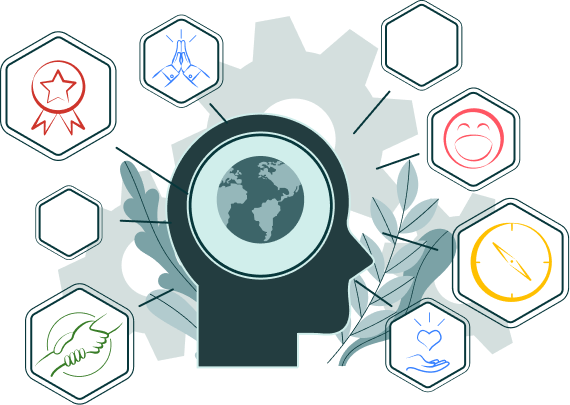
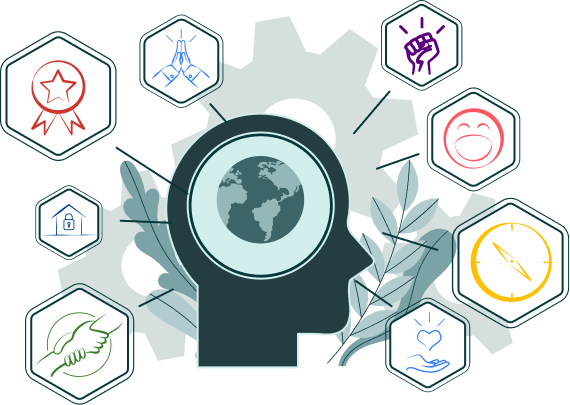
update images and cleanup

Changed region(s): [[0.686, 0.0296, 0.7754, 0.1778], [0.0895, 0.5037, 0.1491, 0.5926]]

diff --git a/screens/onboarding/OnBoardingScreen.tsx b/screens/onboarding/OnBoardingScreen.tsx
@@ -1,0 +1,94 @@
+import { useState } from 'react';
+import { Pressable, StyleSheet, Text, View, Image, Dimensions } from 'react-native';
+import { MaterialIcons } from '@expo/vector-icons';
+
+const texts = [
+  'Explore how climate change impacts you personally and relates to your values.',
+  'Stay informed on climate trends and developments to better understand the impacts of climate change.',
+  'Discover climate solutions tailored to you.',
+  'Start a conversation with a friend about climate change.',
+]
+
+const images = [
+  require('../../assets/onboarding/onboarding1.png'),
+  require('../../assets/onboarding/onboarding2.png'),
+  require('../../assets/onboarding/onboarding3.png'),
+  require('../../assets/onboarding/onboarding4.png'),
+]
+
+interface Props {
+  onCompleted: () => void;
+}
+
+function OnBoardingScreen({ onCompleted }: Props) {
+  const [currentScreen, setCurrentScreen] = useState(0);
+
+  function nextScreen() {
+    if (currentScreen < 3) {
+      setCurrentScreen(currentScreen + 1);
+    } else {
+      onCompleted();
+    }
+  }
+
+  function previousScreen() {
+    if (currentScreen > 0) {
+      setCurrentScreen(currentScreen - 1);
+    }
+  }
+
+  return (
+    <View style={styles.container}>
+
+      <View style={styles.contentArea}>
+        <Image style={styles.image} source={images[currentScreen]} />
+        <Text style={styles.text}>{texts[currentScreen]}</Text>
+      </View>
+
+      <View style={styles.navIcons}>
+        <Pressable onPress={() => previousScreen()} style={styles.navIcon}>
+          {currentScreen > 0 && <MaterialIcons name="arrow-back-ios" size={32} color="black" />}
+        </Pressable>
+        <Pressable onPress={() => nextScreen()} style={styles.navIcon}>
+          <MaterialIcons name="arrow-forward-ios" size={32} color="black" />
+        </Pressable>
+      </View>
+
+    </View>
+  );
+}
+
+const styles = StyleSheet.create({
+  container: {
+    flex: 1,
+    backgroundColor: '#D0EEEB',
+  },
+  contentArea: {
+    flex: 1,
+    marginTop: '20%',
+  },
+  image: {
+    resizeMode: 'contain',
+    width: '95%',
+    height: Dimensions.get('window').height / 2,
+    alignSelf: 'center',
+  },
+  text: {
+    fontFamily: 'nunito-bold',
+    fontSize: 16,
+    paddingHorizontal: 40,
+  },
+  navIcons: {
+    width: Dimensions.get('window').width,
+    flexDirection: 'row',
+    justifyContent: 'space-between',
+    position: 'absolute',
+    bottom: 20,
+    paddingHorizontal: 20,
+  },
+  navIcon: {
+    padding: 20,
+  },
+});
+
+export default OnBoardingScreen;

diff --git a/navigation/RootStackNavigation.tsx b/navigation/RootStackNavigation.tsx
@@ -6,7 +6,6 @@ import LoginScreen from '../screens/stack/LoginScreen/LoginScreen';
 import PreQuizScreen from '../screens/stack/PreQuizScreen/PreQuizScreen';
 import PersonalValuesScreenNewUser from '../screens/stack/PersonalValuesScreenNewUser/PersonalValuesScreenNewUser';
 import SignUpScreen from '../screens/stack/SignUpScreen/SignUpScreen';
-import OnBoardingScreen from '../screens/stack/OnBoardingScreen/OnBoardingScreen';
 
 export type RootStackParams = {
   StartScreen: undefined;
@@ -14,7 +13,6 @@ export type RootStackParams = {
   PreQuizScreen: undefined;
   PersonalValuesScreenNewUser: undefined;
   SignUpScreen: undefined;
-  OnBoardingScreen:undefined
 };
 
 const Stack = createNativeStackNavigator<RootStackParams>();
@@ -22,7 +20,7 @@ const Stack = createNativeStackNavigator<RootStackParams>();
 function RootStackNavigation() {
   return (
     <Stack.Navigator
-      initialRouteName='OnBoardingScreen'
+      initialRouteName='StartScreen'
       screenOptions={{ headerShown: false }}
     >
       <Stack.Screen name='StartScreen' component={StartScreen} />
@@ -30,7 +28,6 @@ function RootStackNavigation() {
       <Stack.Screen name='PreQuizScreen' component={PreQuizScreen} />
       <Stack.Screen name='PersonalValuesScreenNewUser' component={PersonalValuesScreenNewUser} />
       <Stack.Screen name='SignUpScreen' component={SignUpScreen} />
-      <Stack.Screen name='OnBoardingScreen' component={OnBoardingScreen} />
     </Stack.Navigator>
   );
 }

diff --git a/App.tsx b/App.tsx
@@ -4,7 +4,7 @@ import { RootSiblingParent } from 'react-native-root-siblings';
 import * as SplashScreen from 'expo-splash-screen';
 
 import { StatusBar } from 'expo-status-bar';
-import { SafeAreaView, StyleSheet, Text, View } from 'react-native';
+import { SafeAreaView, StyleSheet } from 'react-native';
 
 import useApiClient from './hooks/useApiClient';
 import Colors from './assets/colors';
@@ -21,7 +21,7 @@ import { useAppDispatch, useAppSelector } from './store/hooks';
 // Navigation
 import { NavigationContainer } from '@react-navigation/native';
 import DrawerNavigation from './navigation/DrawerNavigation/DrawerNavigation';
-import RootStackNavigation from './navigation/RootStackNavigation';
+import OnBoardingScreen from './screens/onboarding/OnBoardingScreen';
 
 // Keep the splash screen visible while we fetch resources
 SplashScreen.preventAutoHideAsync();
@@ -87,8 +87,7 @@ function Root() {
     <>
       <StatusBar style="light" />
       <NavigationContainer>
-        {showOnboarding && <RootStackNavigation /> }
-        
+        {showOnboarding && <OnBoardingScreen onCompleted={() => setShowOnboarding(false)} /> }
         {!showOnboarding && <DrawerNavigation />}
       </NavigationContainer>
     </>
